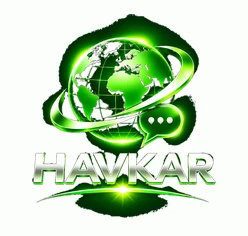
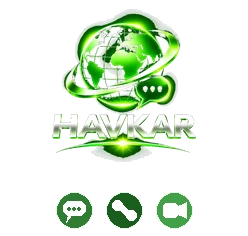
fix(home): transparent messenger tile without outer frame
Remove opaque rectangular background from messenger tile artwork so
the card border is not doubled. Keep globe, orbital ring, and three
message/voice/video icons unchanged.

diff --git a/index.html b/index.html
@@ -849,7 +849,7 @@ html[data-havkar-entry="home"] .havkar-legal-footer {
         </a>
 
         <a class="menu-item" href="chat.html" data-havkar-tile="messenger">
-            <img src="assets/home/chat.png?v=owner-image3-exact-20261126" alt="HAVKAR Messenger" width="248" height="236">
+            <img src="assets/home/chat.png?v=owner-transparent-noframe-20261126" alt="HAVKAR Messenger" width="248" height="236">
             <span class="tile-label" data-i18n="Messenger">Messenger</span>
         </a>
 
